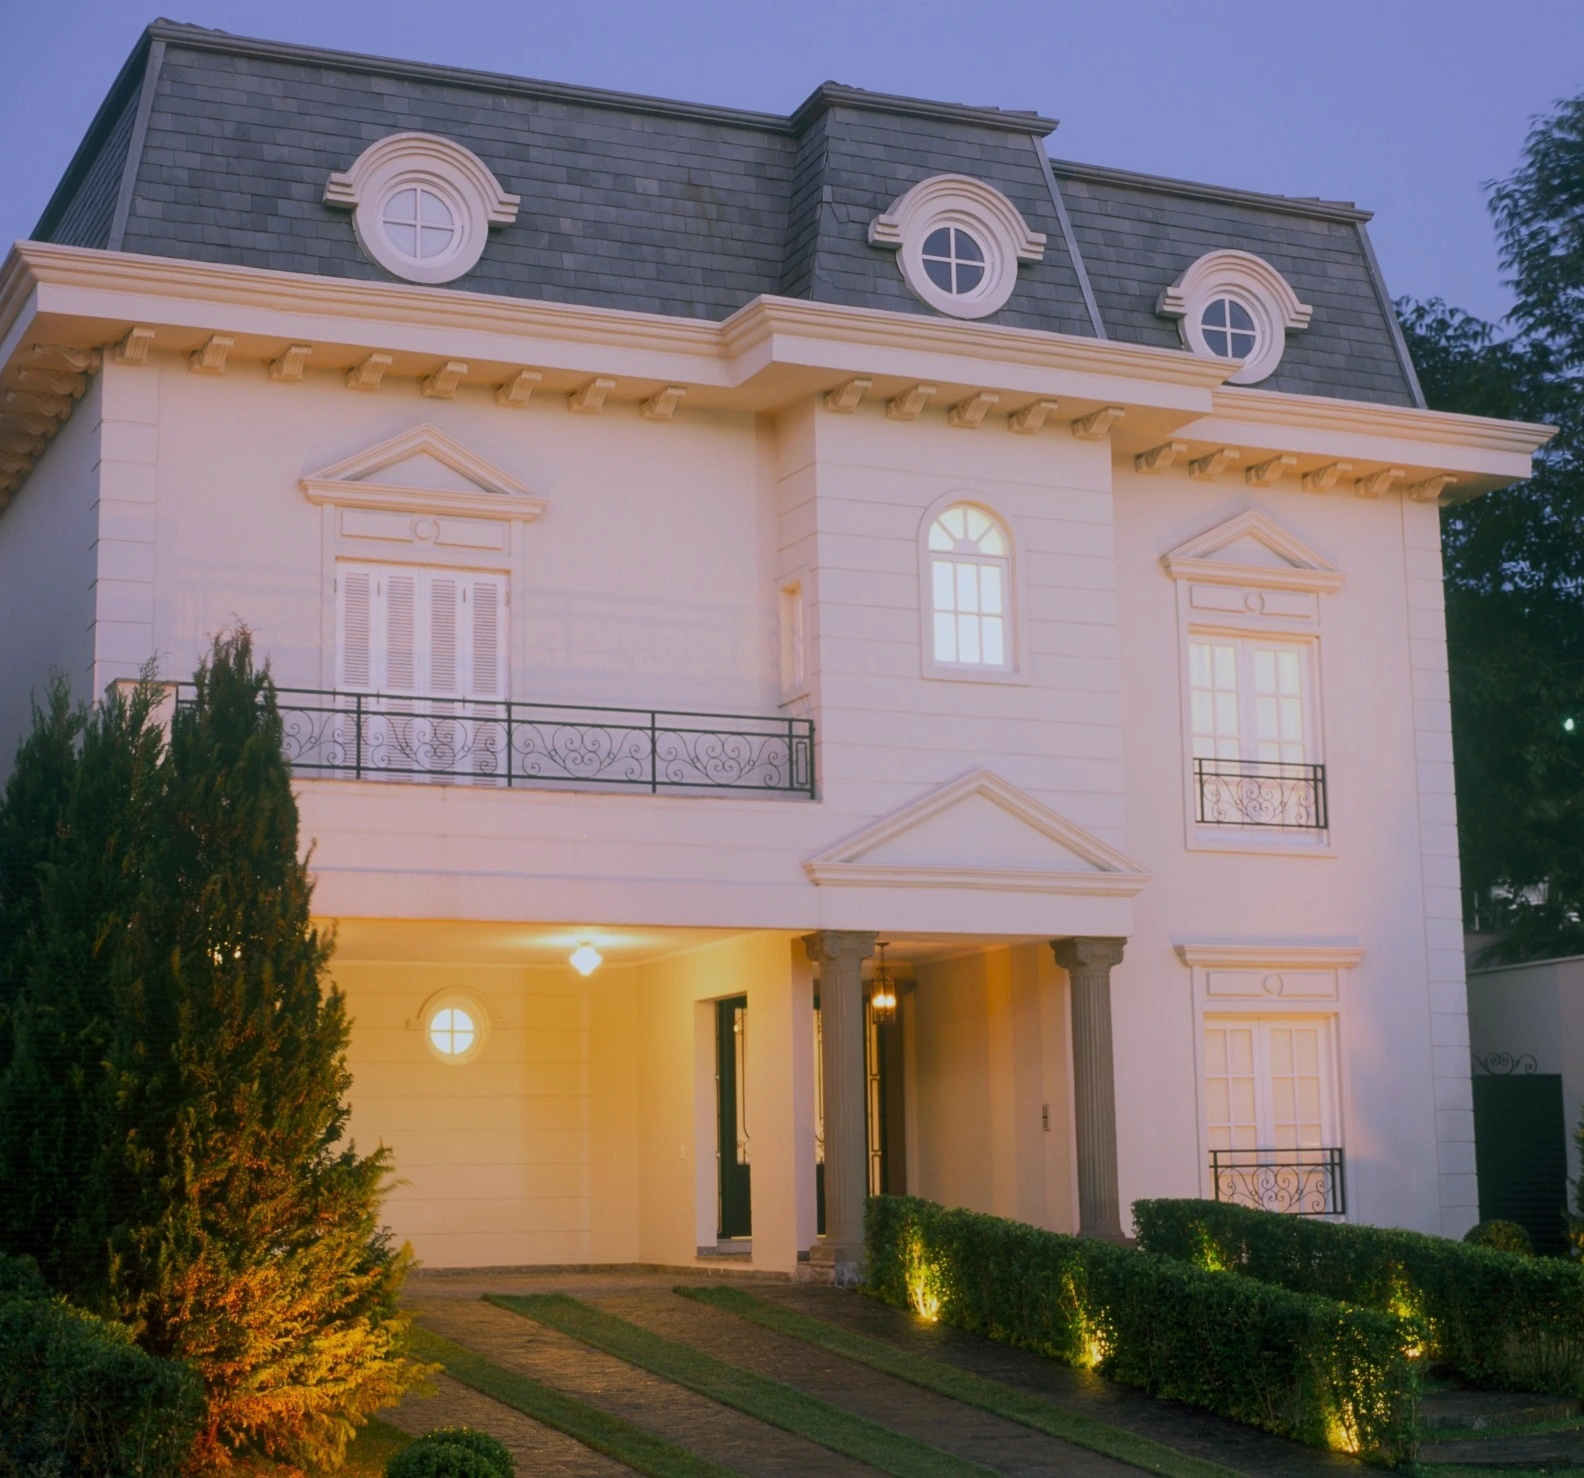
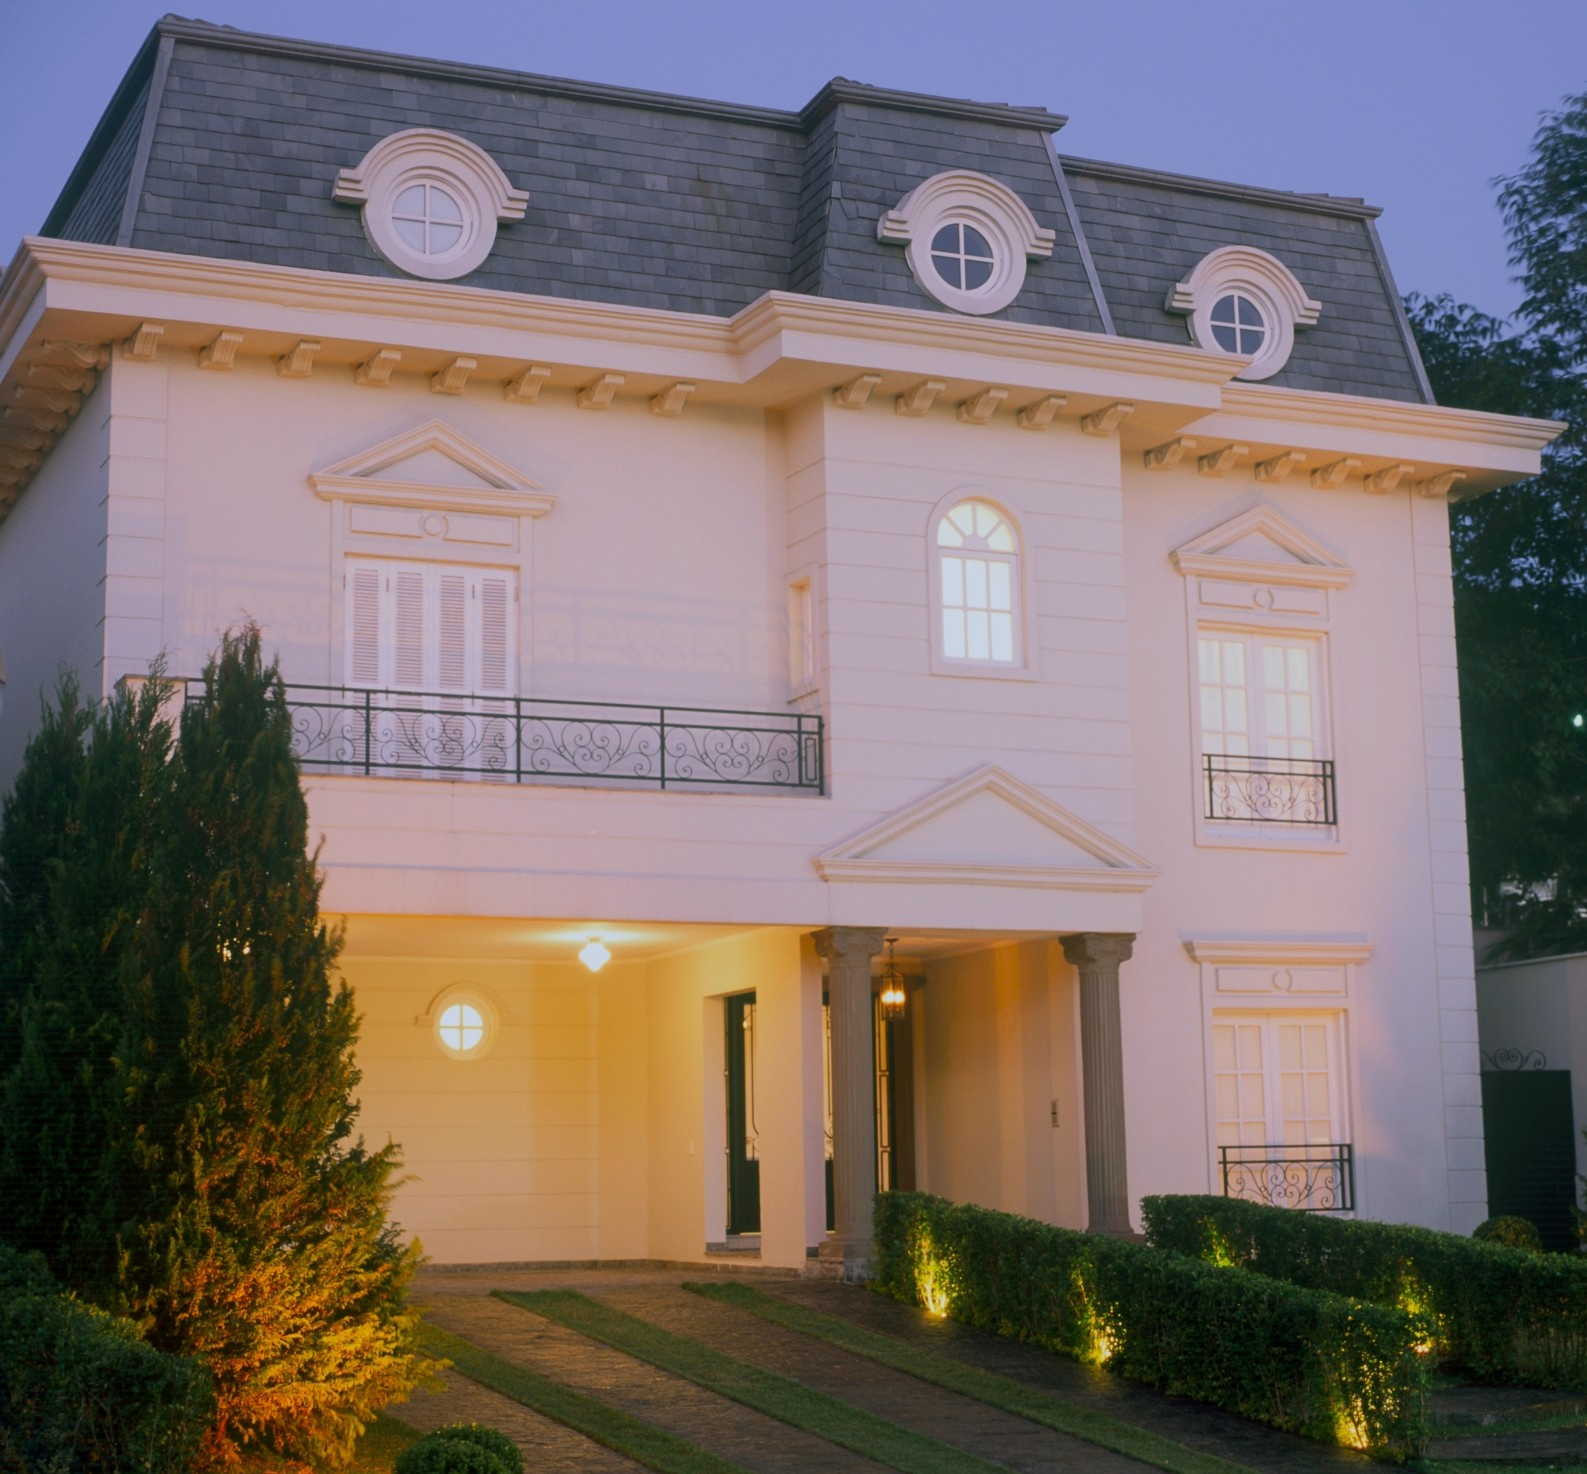
STYLE/ajusta enquadramento da imagem do HERO

diff --git a/src/components/hero/FullWidthWithImage.jsx b/src/components/hero/FullWidthWithImage.jsx
@@ -23,10 +23,10 @@ const Container = tw.div`relative -mx-8 -mt-8 min-h-screen`;
 const TwoColumn = tw.div`flex flex-col lg:flex-row min-h-screen`;
 const LeftColumn = tw.div`ml-8 mr-8 xl:pl-10 py-8 flex flex-col justify-center`;
 const RightColumn = styled.div`
-  ${tw`bg-cover bg-center xl:ml-24 lg:w-1/2 lg:flex-1 min-h-screen lg:min-h-full`}
+  ${tw`bg-cover bg-center xl:ml-20 lg:w-1/2 lg:flex-1 min-h-screen lg:min-h-full`}
 
   .hero-image {
-    ${tw`w-full h-full object-cover min-h-screen lg:min-h-full`}
+    ${tw`w-full h-full min-h-screen lg:min-h-full`}
   }
 `;
 
